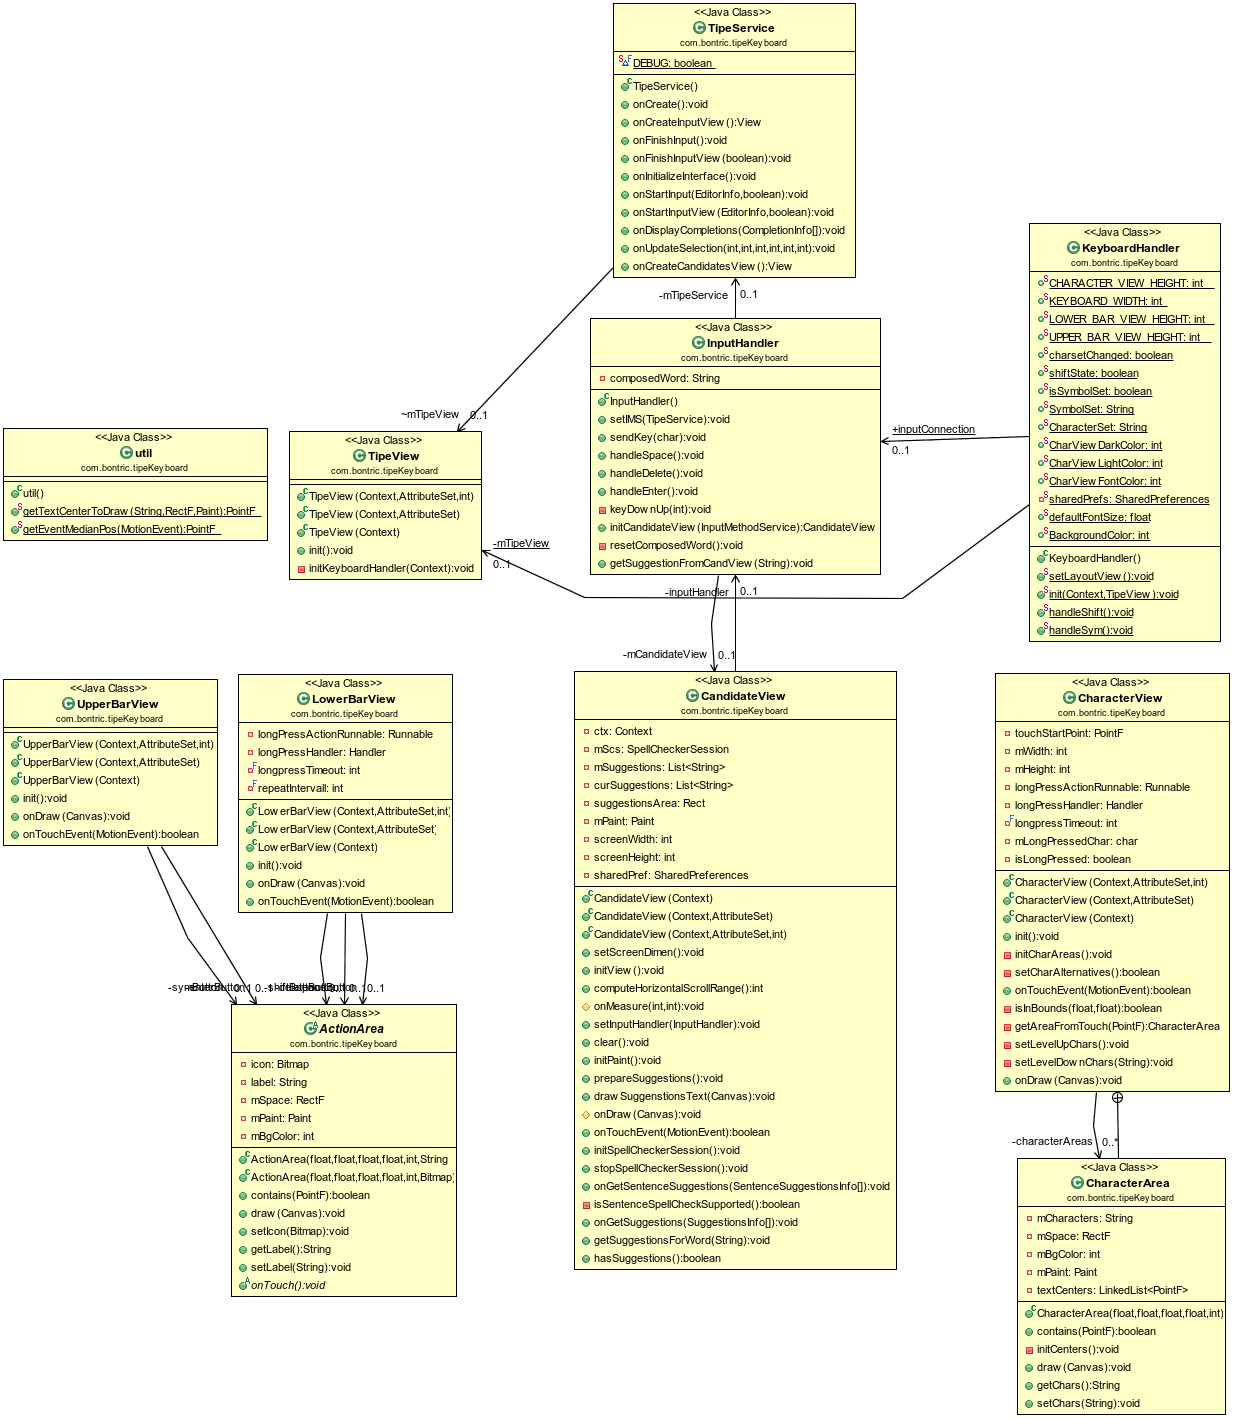
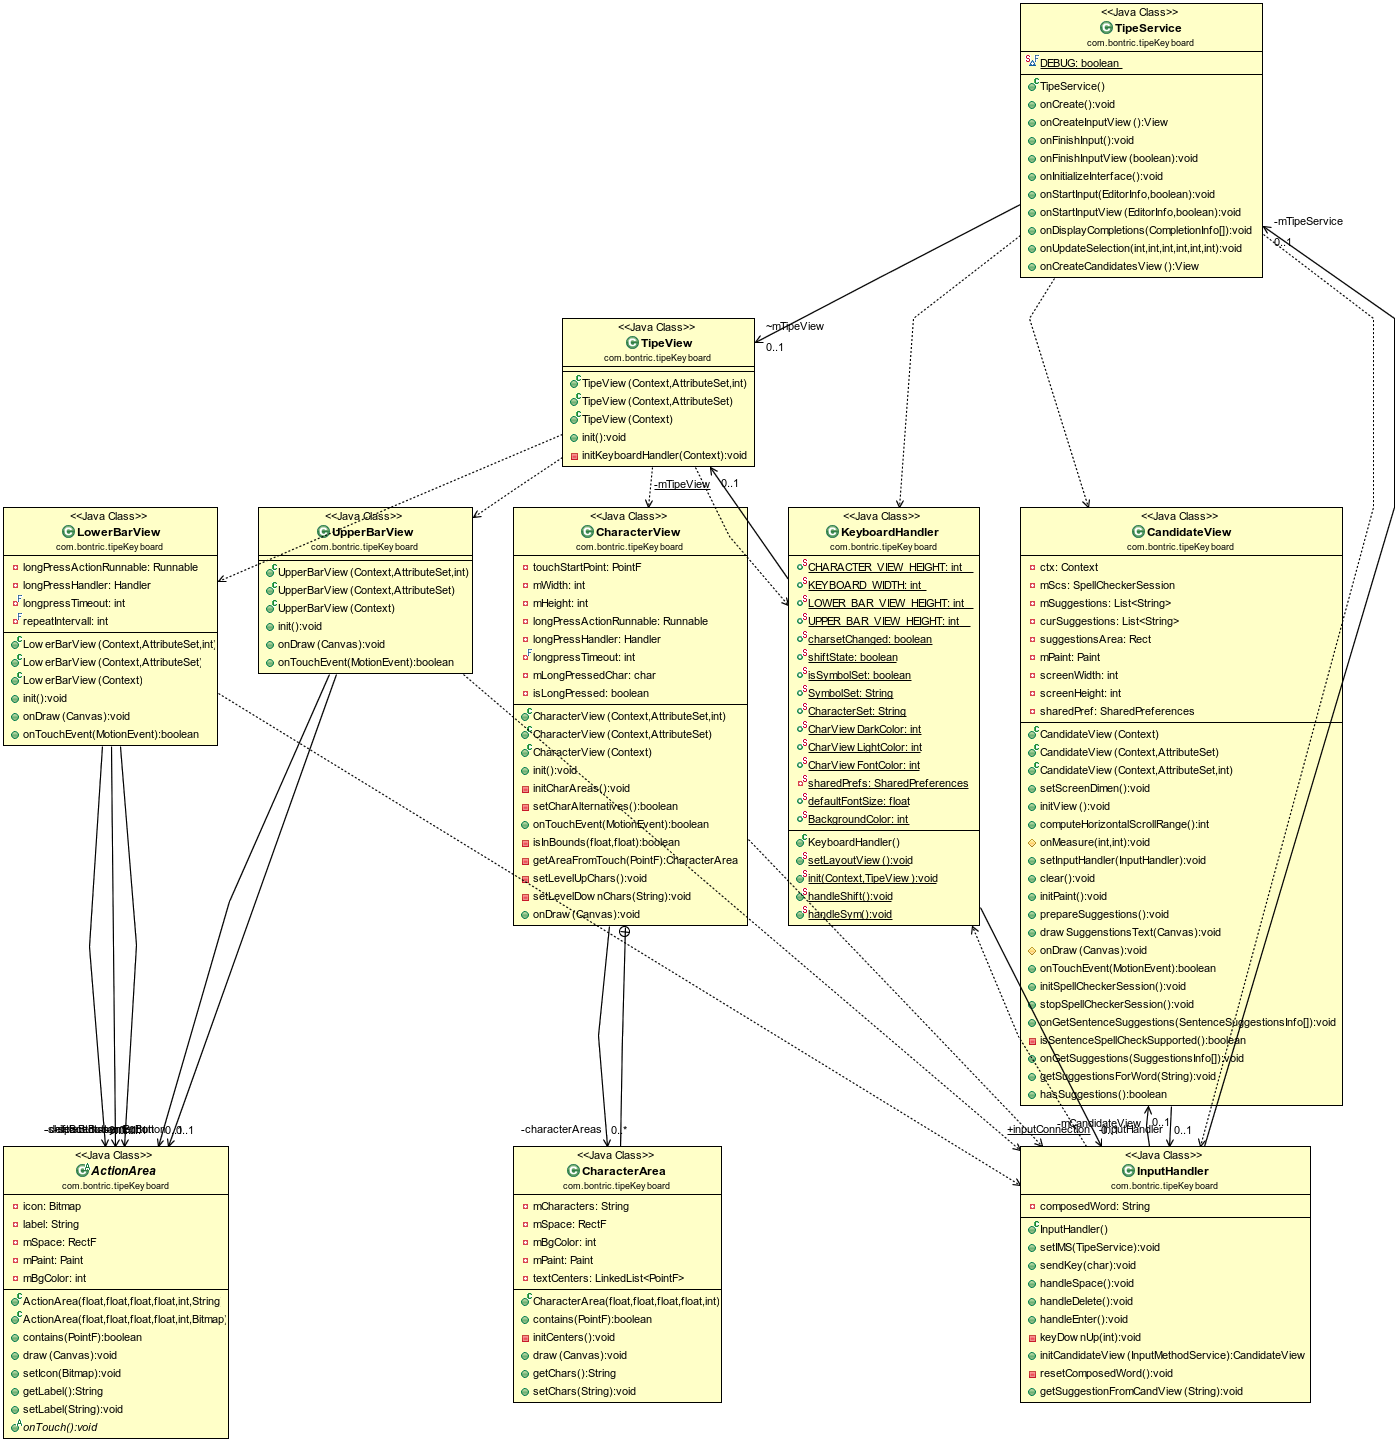
renamed variables to convetional names

diff --git a/src/com/bontric/tipeKeyboard/KeyboardHandler.java b/src/com/bontric/tipeKeyboard/KeyboardHandler.java
@@ -23,30 +23,29 @@ import android.view.WindowManager;
 
 public class KeyboardHandler {
 	// constant for now -> is going to be a setting
-	public static int CHARACTER_VIEW_HEIGHT = 300;
-	public static int KEYBOARD_WIDTH;
-	public static int LOWER_BAR_VIEW_HEIGHT = 100;
-	public static int UPPER_BAR_VIEW_HEIGHT = 100;
+	public static int character_view_height = 300;
+	public static int keyboard_width;
+	public static int lower_bar_view_height = 100;
+	public static int upper_bar_view_height = 100;
+	public static float default_font_size = 40; // Make this variable
 
-	public static boolean charsetChanged = false;
-	/*
-	 * tell handleShift() what to do :)
-	 */
-	public static boolean shiftState = false;
-	public static boolean isSymbolSet = false;
+	public static boolean charset_changed = false;
+	public static boolean shift_state = false;
+	public static boolean is_symbol_set = false;
 
-	public static String SymbolSet;
-	public static String CharacterSet;
-	public static int CharViewDarkColor = Color.BLACK;
-	public static int CharViewLightColor = Color.DKGRAY;
-	public static int CharViewFontColor = Color.WHITE;
+	public static String symbol_set;
+	public static String character_set;
+	
+	public static int char_view_dark_color = Color.BLACK;
+	public static int char_view_light_color = Color.DKGRAY;
+	public static int char_view_font_color = Color.WHITE;
+
+	public static InputHandler input_connection = new InputHandler();
+
+	public static int background_color = Color.BLACK;
+
 	private static SharedPreferences sharedPrefs;
-
-	public static InputHandler inputConnection = new InputHandler();
-	public static float defaultFontSize = 40; // Make this variable
 	private static TipeView mTipeView;
-	public static int BackgroundColor = Color.BLACK;
-
 
 	public static void setLayoutView() {
 
@@ -56,20 +55,20 @@ public class KeyboardHandler {
 		WindowManager wm = (WindowManager) context
 				.getSystemService(Context.WINDOW_SERVICE);
 		Display display = wm.getDefaultDisplay();
-		KEYBOARD_WIDTH = display.getWidth();
+		keyboard_width = display.getWidth();
 
 		sharedPrefs = PreferenceManager.getDefaultSharedPreferences(context);
-		SymbolSet = sharedPrefs.getString(TipeSettings.SYMSET,
+		symbol_set = sharedPrefs.getString(TipeSettings.SYMSET,
 				"CHARSET ERROR! REPORT THIS");
-		CharacterSet = sharedPrefs.getString(TipeSettings.CHARSET,
+		character_set = sharedPrefs.getString(TipeSettings.CHARSET,
 				"CHARSET ERROR! REPORT THIS");
-		CharViewDarkColor = sharedPrefs.getInt(TipeSettings.CHARACTER_BG_DARK,
-				Color.BLACK);
-		CharViewDarkColor = sharedPrefs.getInt(TipeSettings.CHARACTER_BG_LIGHT,
-				Color.DKGRAY);
-		CharViewFontColor = sharedPrefs.getInt(TipeSettings.FONT_COLOR,
+		char_view_dark_color = sharedPrefs.getInt(
+				TipeSettings.CHARACTER_BG_DARK, Color.BLACK);
+		char_view_dark_color = sharedPrefs.getInt(
+				TipeSettings.CHARACTER_BG_LIGHT, Color.DKGRAY);
+		char_view_font_color = sharedPrefs.getInt(TipeSettings.FONT_COLOR,
 				Color.WHITE);
-		BackgroundColor = sharedPrefs.getInt(TipeSettings.BACKGROUND_COLOR,
+		background_color = sharedPrefs.getInt(TipeSettings.BACKGROUND_COLOR,
 				Color.BLACK);
 
 		mTipeView = mTView;
@@ -83,10 +82,11 @@ public class KeyboardHandler {
 		 * with "SS")... so this is a rather bad 'n' dirty fix..but i have no
 		 * other idea than rewriting the toUpperCase() function
 		 */
-		if (shiftState && !isSymbolSet) {
+		if (shift_state && !is_symbol_set) {
 
-			String cs = CharacterSet.replace('ß', '\uffff');
-			CharacterSet = cs.toUpperCase(Locale.GERMAN).replace('\uffff', 'ß');
+			String cs = character_set.replace('ß', '\uffff');
+			character_set = cs.toUpperCase(Locale.GERMAN)
+					.replace('\uffff', 'ß');
 
 			/*
 			 * note this keyboard is for german use right now.. work on locale
@@ -95,16 +95,17 @@ public class KeyboardHandler {
 
 		} else {
 
-			String cs = CharacterSet.replace('ß', '\uffff');
-			CharacterSet = cs.toLowerCase(Locale.GERMAN).replace('\uffff', 'ß');
+			String cs = character_set.replace('ß', '\uffff');
+			character_set = cs.toLowerCase(Locale.GERMAN)
+					.replace('\uffff', 'ß');
 		}
-		charsetChanged = true;
+		charset_changed = true;
 		mTipeView.invalidate();
 	}
 
 	public static void handleSym() {
-		isSymbolSet = !isSymbolSet;
-		charsetChanged = true;
+		is_symbol_set = !is_symbol_set;
+		charset_changed = true;
 		mTipeView.invalidate();
 	}
 }

diff --git a/src/com/bontric/tipeKeyboard/CharacterView.java b/src/com/bontric/tipeKeyboard/CharacterView.java
@@ -51,8 +51,8 @@ public class CharacterView extends View {
 	 */
 	public void init() {
 		LayoutParams params = new LinearLayout.LayoutParams(
-				KeyboardHandler.KEYBOARD_WIDTH,
-				KeyboardHandler.CHARACTER_VIEW_HEIGHT);
+				KeyboardHandler.keyboard_width,
+				KeyboardHandler.character_view_height);
 		this.setLayoutParams(params);
 		mWidth = params.width;
 		mHeight = params.height;
@@ -76,17 +76,17 @@ public class CharacterView extends View {
 		float height = mHeight / 2;
 
 		characterAreas.add(new CharacterArea(x, y, width, height,
-				KeyboardHandler.CharViewDarkColor));
+				KeyboardHandler.char_view_dark_color));
 		characterAreas.add(new CharacterArea(x + width, y, width, height,
-				KeyboardHandler.CharViewLightColor));
+				KeyboardHandler.char_view_light_color));
 		characterAreas.add(new CharacterArea(x + 2 * width, y, width, height,
-				KeyboardHandler.CharViewDarkColor));
+				KeyboardHandler.char_view_dark_color));
 		characterAreas.add(new CharacterArea(x, y + height, width, height,
-				KeyboardHandler.CharViewLightColor));
+				KeyboardHandler.char_view_light_color));
 		characterAreas.add(new CharacterArea(x + width, y + height, width,
-				height, KeyboardHandler.CharViewDarkColor));
+				height, KeyboardHandler.char_view_dark_color));
 		characterAreas.add(new CharacterArea(x + 2 * width, y + height, width,
-				height, KeyboardHandler.CharViewLightColor));
+				height, KeyboardHandler.char_view_light_color));
 
 		setLevelUpChars();
 	}
@@ -189,7 +189,7 @@ public class CharacterView extends View {
 				/*
 				 * make sure this only sends one character a time..
 				 */
-				KeyboardHandler.inputConnection.sendKey(released.getChars()
+				KeyboardHandler.input_connection.sendKey(released.getChars()
 						.charAt(0));
 			} else {
 				/*
@@ -197,7 +197,7 @@ public class CharacterView extends View {
 				 * outside the Character View you'll send a space to the
 				 * inputConnection
 				 */
-				KeyboardHandler.inputConnection.handleSpace();
+				KeyboardHandler.input_connection.handleSpace();
 			}
 			setLevelUpChars();
 			this.invalidate();
@@ -248,8 +248,8 @@ public class CharacterView extends View {
 		/*
 		 * check this if you need more symbol set's
 		 */
-		String charset = (KeyboardHandler.isSymbolSet ? KeyboardHandler.SymbolSet
-				: KeyboardHandler.CharacterSet);
+		String charset = (KeyboardHandler.is_symbol_set ? KeyboardHandler.symbol_set
+				: KeyboardHandler.character_set);
 		for (int i = 0; i < 6; ++i) {
 			characterAreas.get(i).setChars(
 					charset.substring(i * 6, (i + 1) * 6));
@@ -277,9 +277,9 @@ public class CharacterView extends View {
 		 * a textfield to reproduce this. We'll need to find a proper fix for
 		 * that!
 		 */
-		if (KeyboardHandler.charsetChanged) {
+		if (KeyboardHandler.charset_changed) {
 			setLevelUpChars();
-			KeyboardHandler.charsetChanged = false;
+			KeyboardHandler.charset_changed = false;
 			// tell the Keyboard handler that we handled shift.
 		}
 
@@ -299,7 +299,7 @@ public class CharacterView extends View {
 				int bg_color) {
 			this.mSpace = new RectF(x, y, x + width, y + height);
 			mBgColor = bg_color;
-			mPaint.setTextSize(KeyboardHandler.defaultFontSize);
+			mPaint.setTextSize(KeyboardHandler.default_font_size);
 
 		}
 
@@ -330,7 +330,7 @@ public class CharacterView extends View {
 
 			mPaint.setColor(mBgColor);
 			canvas.drawRect(mSpace, mPaint);
-			mPaint.setColor(KeyboardHandler.CharViewFontColor);
+			mPaint.setColor(KeyboardHandler.char_view_font_color);
 			mPaint.setTextAlign(Align.CENTER);
 			int i = 0;
 			if (mCharacters.length() == 6) {

diff --git a/src/com/bontric/tipeKeyboard/LowerBarView.java b/src/com/bontric/tipeKeyboard/LowerBarView.java
@@ -35,10 +35,10 @@ public class LowerBarView extends View {
 	}
 
 	public void init() {
-		this.setBackgroundColor(KeyboardHandler.BackgroundColor);
+		this.setBackgroundColor(KeyboardHandler.background_color);
 		LayoutParams params = new LinearLayout.LayoutParams(
-				KeyboardHandler.KEYBOARD_WIDTH,
-				KeyboardHandler.LOWER_BAR_VIEW_HEIGHT);
+				KeyboardHandler.keyboard_width,
+				KeyboardHandler.lower_bar_view_height);
 		this.setLayoutParams(params);
 
 		int width = params.width;
@@ -47,12 +47,12 @@ public class LowerBarView extends View {
 				R.drawable.sym_keyboard_shift);
 
 		shiftButton = new ActionArea(0, 0, width / 3, height,
-				KeyboardHandler.BackgroundColor, tempIcon) {
+				KeyboardHandler.background_color, tempIcon) {
 
 			@Override
 			public void onTouch() {
-				if (!KeyboardHandler.isSymbolSet) {
-					KeyboardHandler.shiftState = !KeyboardHandler.shiftState;
+				if (!KeyboardHandler.is_symbol_set) {
+					KeyboardHandler.shift_state = !KeyboardHandler.shift_state;
 				}
 				KeyboardHandler.handleShift();
 
@@ -63,10 +63,10 @@ public class LowerBarView extends View {
 				R.drawable.sym_keyboard_space);
 
 		spaceButton = new ActionArea(width / 3, 0, width / 3, height,
-				KeyboardHandler.BackgroundColor, tempIcon) {
+				KeyboardHandler.background_color, tempIcon) {
 			@Override
 			public void onTouch() {
-				KeyboardHandler.inputConnection.handleSpace();
+				KeyboardHandler.input_connection.handleSpace();
 
 			}
 		};
@@ -74,10 +74,10 @@ public class LowerBarView extends View {
 		tempIcon = BitmapFactory.decodeResource(getResources(),
 				R.drawable.sym_keyboard_delete);
 		deleteButton = new ActionArea(2 * width / 3, 0, width / 3, height,
-				KeyboardHandler.BackgroundColor, tempIcon) {
+				KeyboardHandler.background_color, tempIcon) {
 			@Override
 			public void onTouch() {
-				KeyboardHandler.inputConnection.handleDelete();
+				KeyboardHandler.input_connection.handleDelete();
 
 			}
 		};

diff --git a/src/com/bontric/tipeKeyboard/UpperBarView.java b/src/com/bontric/tipeKeyboard/UpperBarView.java
@@ -33,17 +33,17 @@ public class UpperBarView extends View {
 	}
 
 	public void init() {
-		this.setBackgroundColor(KeyboardHandler.BackgroundColor);
+		this.setBackgroundColor(KeyboardHandler.background_color);
 		LayoutParams params = new LinearLayout.LayoutParams(
-				KeyboardHandler.KEYBOARD_WIDTH,
-				KeyboardHandler.UPPER_BAR_VIEW_HEIGHT);
+				KeyboardHandler.keyboard_width,
+				KeyboardHandler.upper_bar_view_height);
 		this.setLayoutParams(params);
 
 		int width = params.width;
 		int height = params.height;
 
 		symButton = new ActionArea(0, 0, width / 3, height,
-				KeyboardHandler.BackgroundColor, "Sym") {
+				KeyboardHandler.background_color, "Sym") {
 
 			@Override
 			public void onTouch() {
@@ -55,10 +55,10 @@ public class UpperBarView extends View {
 				R.drawable.sym_keyboard_return);
 
 		enterButton = new ActionArea(2 * width / 3, 0, width / 3, height,
-				KeyboardHandler.BackgroundColor, tempIcon) {
+				KeyboardHandler.background_color, tempIcon) {
 			@Override
 			public void onTouch() {
-				KeyboardHandler.inputConnection.handleEnter();
+				KeyboardHandler.input_connection.handleEnter();
 
 			}
 		};

diff --git a/src/com/bontric/tipeKeyboard/ActionArea.java b/src/com/bontric/tipeKeyboard/ActionArea.java
@@ -18,7 +18,7 @@ public abstract class ActionArea {
 			int bg_color, String label) {
 		this.mSpace = new RectF(x, y, x + width, y + height);
 		mBgColor = bg_color;
-		mPaint.setTextSize(KeyboardHandler.defaultFontSize);
+		mPaint.setTextSize(KeyboardHandler.default_font_size);
 		mPaint.setTextAlign(Align.CENTER);
 		this.label = label;
 	}
@@ -27,7 +27,7 @@ public abstract class ActionArea {
 			int bg_color, Bitmap icon) {
 		this.mSpace = new RectF(x, y, x + width, y + height);
 		mBgColor = bg_color;
-		mPaint.setTextSize(KeyboardHandler.defaultFontSize);
+		mPaint.setTextSize(KeyboardHandler.default_font_size);
 		mPaint.setTextAlign(Align.CENTER);
 		this.icon = icon;
 	}
@@ -40,7 +40,7 @@ public abstract class ActionArea {
 
 		mPaint.setColor(mBgColor);
 		canvas.drawRect(mSpace, mPaint);
-		mPaint.setColor(KeyboardHandler.CharViewFontColor);
+		mPaint.setColor(KeyboardHandler.char_view_font_color);
 		if (icon != null) {
 			int cx = (int) ((mSpace.width() - icon.getWidth()) / 2);
 			int cy = (int) (mSpace.height() - icon.getHeight()) / 2;

diff --git a/src/com/bontric/tipeKeyboard/TipeService.java b/src/com/bontric/tipeKeyboard/TipeService.java
@@ -25,7 +25,7 @@ public class TipeService extends InputMethodService {
 		super.onCreate();
 		getResources();
 		PreferenceManager.setDefaultValues(this, R.xml.settings, false);
-		KeyboardHandler.inputConnection.setIMS(this);
+		KeyboardHandler.input_connection.setIMS(this);
 	}
 
 	@SuppressLint("NewApi")
@@ -79,7 +79,7 @@ public class TipeService extends InputMethodService {
 	@Override
 	public View onCreateCandidatesView() {
 		//Create Candites view 
-		return KeyboardHandler.inputConnection.initCandidateView(this);
+		return KeyboardHandler.input_connection.initCandidateView(this);
 	}
 
 }

diff --git a/src/com/bontric/tipeKeyboard/CandidateView.java b/src/com/bontric/tipeKeyboard/CandidateView.java
@@ -98,7 +98,7 @@ public class CandidateView extends View implements SpellCheckerSessionListener {
 
 	public void initView(){
 
-	  	this.setBackgroundColor(KeyboardHandler.BackgroundColor);
+	  	this.setBackgroundColor(KeyboardHandler.background_color);
 		curSuggestions = new ArrayList<String>();
 		setWillNotDraw(false);
 		sharedPref = PreferenceManager.getDefaultSharedPreferences(ctx);

diff --git a/src/com/bontric/tipeKeyboard/InputHandler.java b/src/com/bontric/tipeKeyboard/InputHandler.java
@@ -27,7 +27,7 @@ public class InputHandler {
 		mTipeService.setCandidatesViewShown(true);
 		
 		mTipeService.getCurrentInputConnection().commitText("" + c, 1);
-		KeyboardHandler.shiftState = false;
+		KeyboardHandler.shift_state = false;
 		KeyboardHandler.handleShift();
 	}
 
